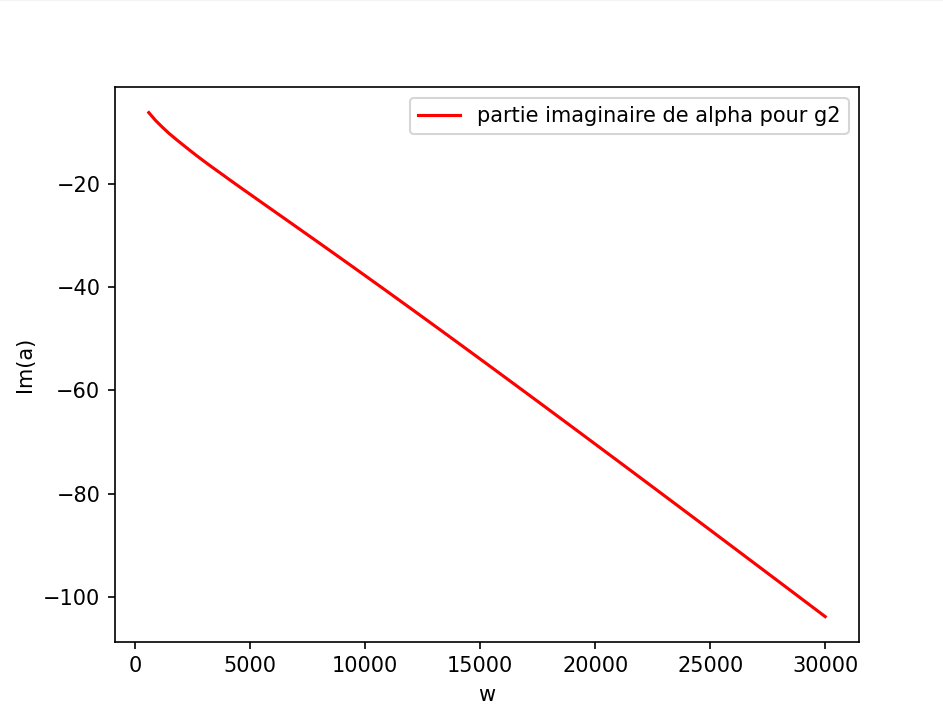
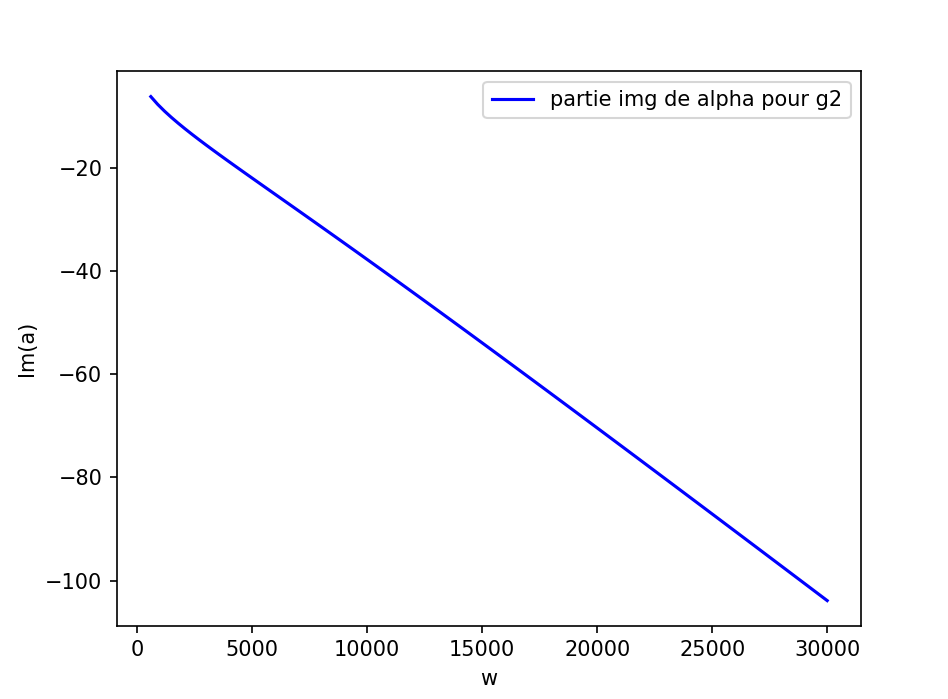
more pics

diff --git a/function.py b/function.py
@@ -13,9 +13,27 @@ c0=340 #vitesse du son dans l'air en m/s
 p0=1.292 # masse vol de l'air en kg/m^3
 deltax=0.01
 
+
+'''
+#melaline
 poro=0.99
 resitance=14000
 tort=1.02
+'''
+
+'''
+#Carbon fiber composite values taken from https://hal.science/hal-02357714/document: article ref SFG1aBG
+poro=0.95
+tort=24
+resitance=1.4*10**10
+'''
+
+#ITFH, value taken from the coursebook
+poro=0.94
+tort=1.44
+resitance=7040
+
+
 
 
 
@@ -71,23 +89,12 @@ def chi_and_gamma(k,alpha,w,gk):
     gamma=gk*gamma
     return chi,gamma
 
-def fourier(g,k,w):
-    var=complex(0,1)
-    error=complex(0,0)
-    def temp(y):
-        return g(y,w)*np.exp(-var*np.pi*k*y/L) #calcul du k-ieme coeff de fourier
-    res,error=scipy.integrate.quad(temp,-L,L)
-    return complex(res,0)
+
 
 
 def compute_fourier_coefficient(g,k, w):
-    # Define the integrand for the Fourier coefficient
     integrand = lambda y: g(y, w) * np.exp(-1j * k  * y)
-
-    # Perform the integration over the range [-L, L]
     result, _ = scipy.integrate.quad(integrand, -L, L)
-
-    # Divide by 2*L to compute the coefficient
     ck = complex(result.real / (2 * L), result.imag / (2 * L))
 
     return ck
@@ -130,7 +137,7 @@ def sum_ek(alpha,w,g):
     return res
 
 
-def minimise(g): #modify the function with the correct source, do not forget to modify the labels as well
+def minimise(g): #modify the function with the correct source
     initial_alpha=[1,1.5]
     w_range=np.linspace(600,30000,100)
     alpha_real=[]
@@ -144,26 +151,18 @@ def minimise(g): #modify the function with the correct source, do not forget to 
         alpha_real.append(result.x[0])
         alpha_img.append(result.x[1])
     
-    #plt.plot(w_range, alpha_real, color='red', label=f'partie Reelle de alpha pour {g.__name__} ')  
+    plt.plot(w_range, alpha_real, color='red', label=f'partie Reelle de alpha pour {g.__name__} ')  
     plt.plot(w_range,alpha_img,color='blue',label=f"partie img de alpha pour {g.__name__}")
     plt.xlabel('w')
-    plt.ylabel('Im(a)')
+    #plt.ylabel('Im(a)')
     plt.legend()
 
     plt.show()
-''''
-def optimal_alpha(w,N,g):
-    init=[0,0]
-    def optimize_e(xy):
-        x,y=xy
-        return abs(e(x+1j*y,w,N,g))
-    result = minimize(optimize_e,init,method='L-BFGS-B')
-    return result
-'''
 
 
 
-minimise(g1)
+
+minimise(g3)
 #print(compute_fourier_coefficient(2,L,1000))
 
 
